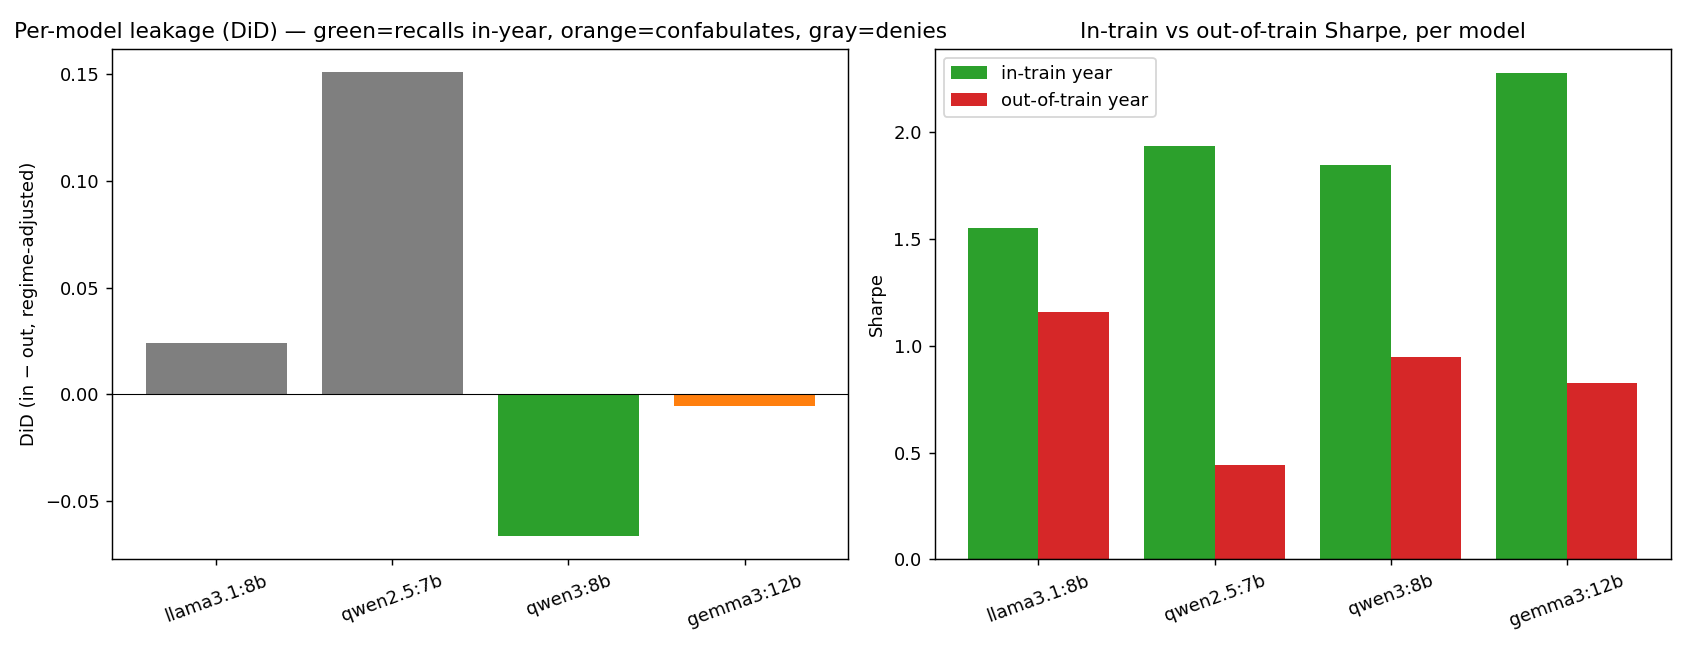
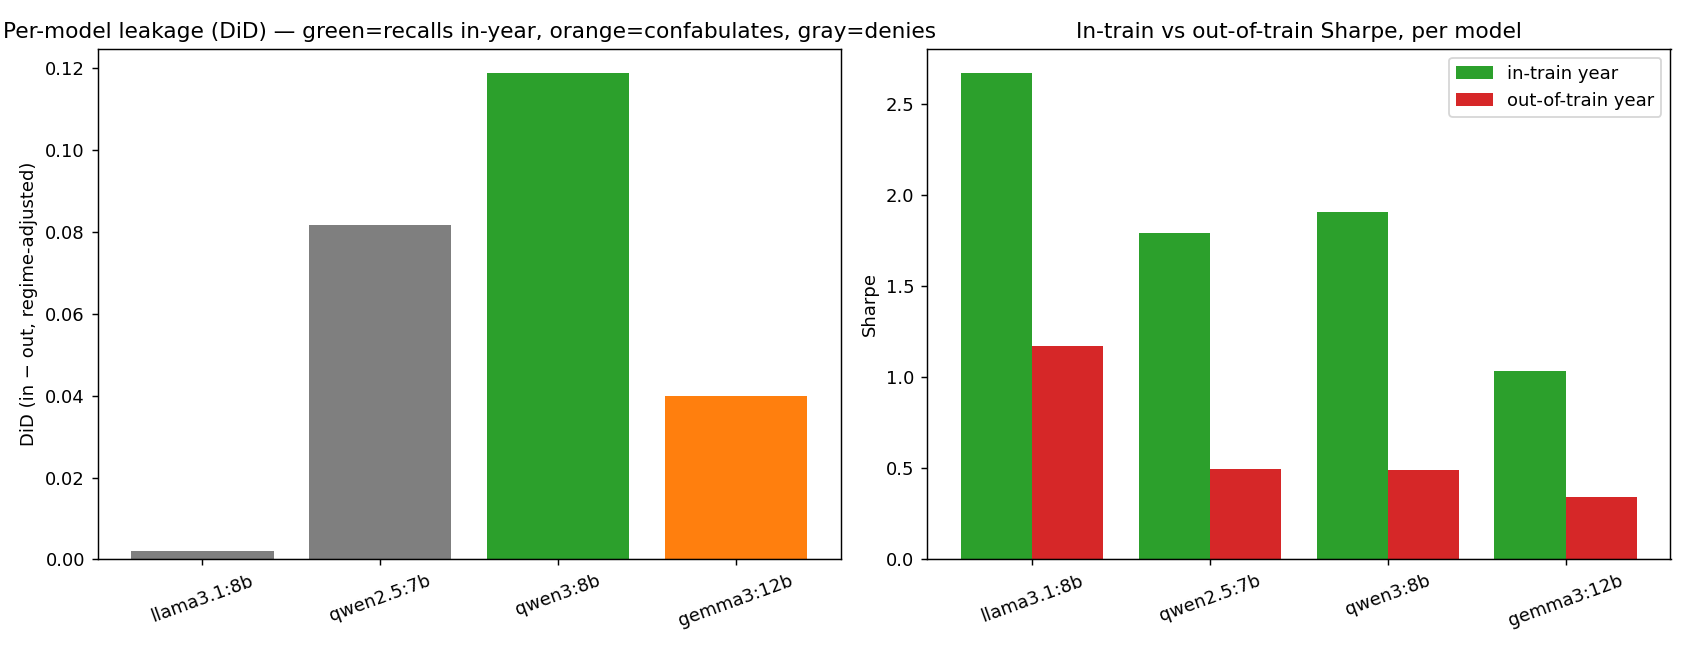
Per-model in-vs-out (4 models, 3 seeds): Sharpe in>>out universal; regime-adjusted DiD orders by genuine recall (qwen3>qwen2.5>gemma>llama). New §4.10 + figure; qwen3 OUT=2025->2026 confound documented

diff --git a/report/research_report.md b/report/research_report.md
@@ -38,7 +38,10 @@ official Aug-2024 cutoff) did *not* reproduce the clean signature** — it **con
 period (projecting "Joe Biden" as the 2024 winner) rather than recalling it (the pre-registered
 H2). The two-family contrast yields the study's sharpest lesson: **a documented in-window cutoff
 is necessary but not sufficient for leakage — what matters is genuine recall, so each model must
-be probed, not assumed contaminated from its cutoff date.**
+be probed, not assumed contaminated from its cutoff date.** A four-model, in-train-year vs
+out-of-train-year sweep (§4.10) corroborates this: every model trades its training year at a far
+higher Sharpe than an unseen year, and the **regime-adjusted leakage gap orders by genuine recall**
+(qwen3 > qwen2.5 > gemma-confabulates > llama), though per-model significance is power-limited.
 
 ---
 
@@ -424,6 +427,38 @@ for parametric leakage — what matters is whether the model *genuinely recalls*
 `qwen3:8b` recalls and leaks; `gemma3:12b` confabulates and does not. The leakage we measure is
 therefore **model-specific, not a mechanical consequence of the cutoff date** — which makes
 per-model probing (not model-card cutoffs) the operative safeguard.
+
+### 4.10 Per-model: in-train-year vs out-of-train-year (4 models, EC2)
+
+The cleanest within-model test holds the backbone fixed and varies only the *traded year* between
+one **inside** the model's training cutoff and one **after** it. We ran this for **four models**
+(each with an empirically-grounded cutoff), 3 seeds, on EC2, with a no-memory momentum baseline
+for the regime-adjusted DiD. The OUT window is chosen per model to be genuinely post-cutoff (for
+`qwen3`, a 2025-release model that partly knows 2025, the only clean OOD year is 2026).
+
+| Model | IN-year (recall) | OUT-year | Sharpe IN | Sharpe OUT | **DiD (regime-adj.)** | perm p |
+|---|---|---|---|---|---|---|
+| `qwen3:8b` | 2024 — **genuinely recalls** | 2026 | +1.91 | +0.49 | **+0.119** | 0.57 |
+| `qwen2.5:7b` | 2023 — knows | 2025 | +1.79 | +0.50 | +0.082 | 0.22 |
+| `gemma3:12b` | 2024 — **confabulates** | 2025 | +1.03 | +0.34 | +0.040 | 0.79 |
+| `llama3.1:8b` | 2023 — weak | 2025 | +2.67 | +1.17 | +0.002 | 0.84 |
+
+![Per-model in vs out](figures/per_model_in_vs_out.png)
+
+**Two findings.** (1) **Every model earns a far higher Sharpe in its training year than out of
+it** (right panel) — but much of that is market regime, which is exactly why we regime-adjust.
+(2) After the DiD correction, the residual leakage **orders by genuine recall**: `qwen3` (which
+correctly recalls the Aug-5 crash / NVIDIA split) is largest (+0.119), `qwen2.5` (knows its 2023
+in-year) next (+0.082), `gemma3` (which *confabulates* its 2024 in-year — "Biden won") small
+(+0.040), and `llama3.1` ≈0 (+0.002). This is the hypothesis's signature: *the more a model
+genuinely remembers its in-window, the larger its in−out leakage gap.*
+
+**Honesty about power.** No single model's in-vs-out permutation test is significant at 3 seeds ×
+~250 days (p = 0.22–0.84); the evidence is in the **cross-model ordering of the DiD point
+estimates**, not per-model p-values. We also note the methodological lesson the run surfaced: with
+`qwen3`'s OUT window mis-set to 2025 (which it partly knows), its DiD was −0.07; moving OUT to the
+genuinely-unseen 2026 flipped it to +0.119 — **the OUT window must be verified post-cutoff per
+model**, or leakage is masked.
 
 ## 5. Discussion & Forensic Analysis
 

diff --git a/PROGRESS.md b/PROGRESS.md
@@ -15,6 +15,7 @@ Durable across context compaction — read this + `findings.md` to resume.
 | 5 | Evaluation + statistical proof | ✅ done — DiD positive, moderate H1 support |
 | 6 | Research report | ✅ results+discussion+related-work+figures+Gemma §4.9 written |
 | 7 | Gemma 3 12B independent-family test (RUN_TAG=gemma) | ✅ done — did NOT replicate (confabulates; H2) |
+| 8 | Per-model in-vs-out (4 models, 3 seeds, EC2) | ✅ done — DiD orders by recall |
 
 ## Open gates (require user)
 